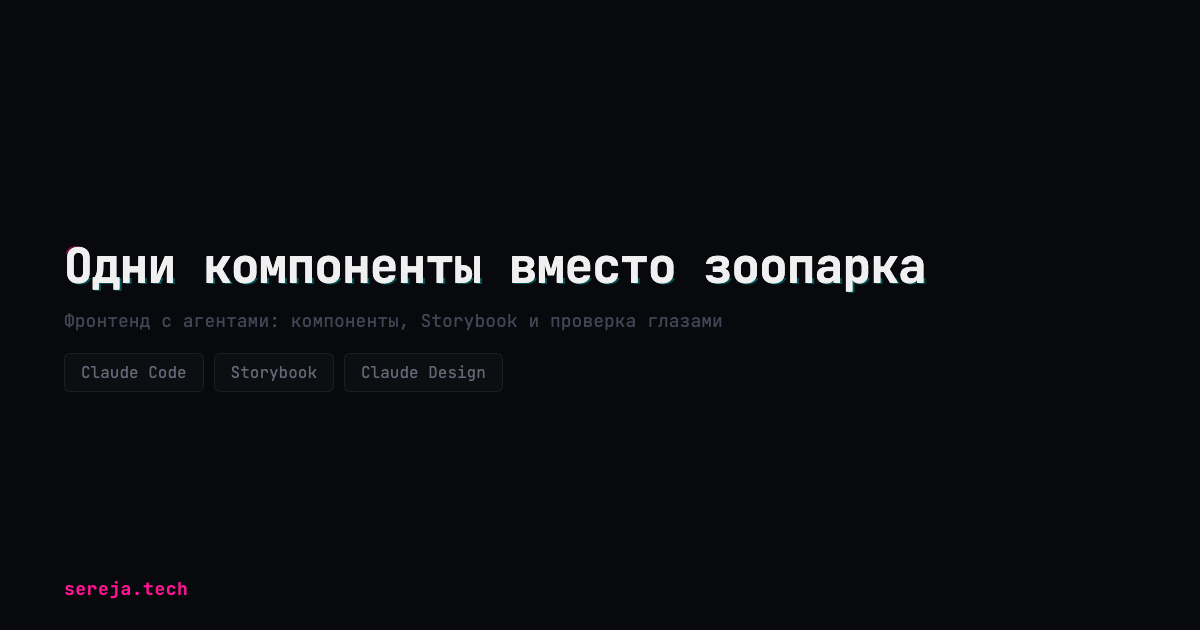
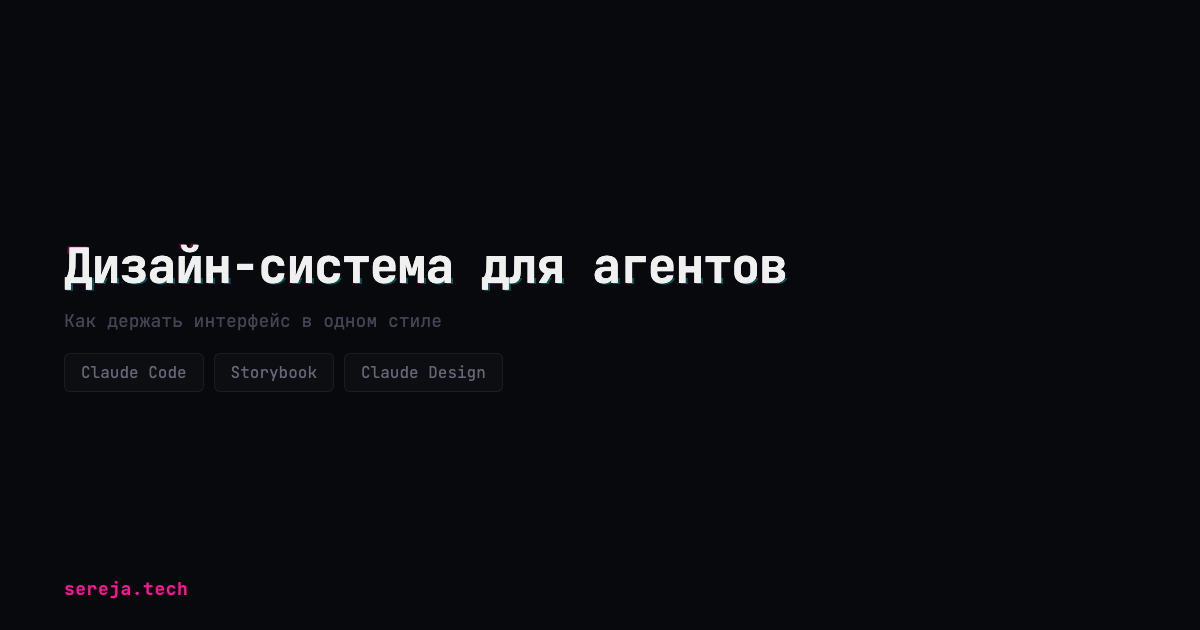
fix(guide): заголовок «Дизайн-система для агентов: как держать интерфейс в одном стиле»

diff --git a/static/frontend-s-agentami/index.html b/static/frontend-s-agentami/index.html
@@ -1,8 +1,8 @@
 <!doctype html>
 <html lang="ru"><head><meta charset="utf-8"><meta name="viewport" content="width=device-width,initial-scale=1">
-<meta name="updated" content="2026-10-08"><title>Фронтенд с агентами: одни компоненты вместо зоопарка | Сережа Рис</title>
+<meta name="updated" content="2026-10-08"><title>Дизайн-система для агентов: интерфейс в одном стиле | Сережа Рис</title>
 <meta name="description" content="Гайд: как агенты нарастили в LMS пятнадцать разных кнопок и как вернуть порядок: один набор компонентов, Storybook по правилам и проверка глазами.">
-<meta property="og:type" content="article"><meta property="og:title" content="Фронтенд с агентами: одни компоненты вместо зоопарка"><meta property="og:description" content="Гайд: как агенты нарастили в LMS пятнадцать разных кнопок и как вернуть порядок: один набор компонентов, Storybook по правилам и проверка глазами."><meta property="og:image" content="https://sereja.tech/frontend-s-agentami/img/og-preview.png"><meta property="og:image:width" content="1200"><meta property="og:image:height" content="630"><meta name="twitter:image" content="https://sereja.tech/frontend-s-agentami/img/og-preview.png">
+<meta property="og:type" content="article"><meta property="og:title" content="Дизайн-система для агентов: интерфейс в одном стиле"><meta property="og:description" content="Гайд: как агенты нарастили в LMS пятнадцать разных кнопок и как вернуть порядок: один набор компонентов, Storybook по правилам и проверка глазами."><meta property="og:image" content="https://sereja.tech/frontend-s-agentami/img/og-preview.png"><meta property="og:image:width" content="1200"><meta property="og:image:height" content="630"><meta name="twitter:image" content="https://sereja.tech/frontend-s-agentami/img/og-preview.png">
 <link rel="preconnect" href="https://fonts.googleapis.com"><link rel="preconnect" href="https://fonts.gstatic.com" crossorigin><link href="https://fonts.googleapis.com/css2?family=Spectral:ital,wght@0,200;0,300;0,400;0,500;0,800;1,200;1,300&family=Jost:wght@400;500;600&family=Poiret+One&family=IBM+Plex+Mono:wght@300;400&display=swap" rel="stylesheet"><style>
 :root{--ink:#000;--blue:#2d3e9f;--pink:#ff1493;--grey:#8b8b8b;--paper:#f4f4f2;--ph:#efefef;--col:720px;--wide:1000px;
 --serif:"Spectral",Georgia,serif;--sans:"Jost","Futura","Century Gothic",sans-serif;--logo:"Poiret One","Jost",sans-serif;--mono:"IBM Plex Mono",Menlo,monospace}
@@ -134,8 +134,8 @@ footer .logo{font-size:34px}
   .strip img:nth-child(n+4),.strip video:nth-child(n+4){display:none}
   .diagram{overflow-x:auto}.diagram svg{min-width:760px}
 }
-</style><link rel="canonical" href="https://sereja.tech/frontend-s-agentami/"><meta name="author" content="Сережа Рис"><meta name="robots" content="index, follow, max-image-preview:large"><link rel="icon" type="image/svg+xml" href="/favicon.svg"><link rel="apple-touch-icon" href="/apple-touch-icon.png"><meta name="theme-color" content="#ffffff"><link rel="alternate" type="application/rss+xml" href="https://sereja.tech/blog/index.xml" title="Блог"><meta property="og:url" content="https://sereja.tech/frontend-s-agentami/"><meta property="og:site_name" content="Сережа Рис"><meta property="og:locale" content="ru_RU"><meta property="og:image:type" content="image/png"><meta property="og:image:alt" content="Одни компоненты вместо зоопарка"><meta property="article:published_time" content="2026-10-08T12:00:00+03:00"><meta property="article:modified_time" content="2026-10-08T12:00:00+03:00"><meta property="article:author" content="Сережа Рис"><meta property="article:section" content="Гайды"><meta property="article:tag" content="вайбкодинг"><meta property="article:tag" content="Claude Code"><meta property="article:tag" content="AI-агенты"><meta property="article:tag" content="фронтенд"><meta property="article:tag" content="Storybook"><meta property="article:tag" content="дизайн-система"><meta name="twitter:card" content="summary_large_image"><meta name="twitter:site" content="@riiiiiiiiss"><meta name="twitter:creator" content="@riiiiiiiiss"><meta name="twitter:title" content="Фронтенд с агентами: одни компоненты вместо зоопарка"><meta name="twitter:description" content="Гайд: как агенты нарастили в LMS пятнадцать разных кнопок и как вернуть порядок: один набор компонентов, Storybook по правилам и проверка глазами."><script type="application/ld+json">{"@context": "https://schema.org", "@type": "BlogPosting", "headline": "Фронтенд с агентами: одни компоненты вместо зоопарка", "description": "Гайд: как агенты нарастили в LMS пятнадцать разных кнопок и как вернуть порядок: один набор компонентов, Storybook по правилам и проверка глазами.", "image": "https://sereja.tech/frontend-s-agentami/img/og-preview.png", "inLanguage": "ru-RU", "datePublished": "2026-10-08", "dateModified": "2026-10-08", "mainEntityOfPage": {"@type": "WebPage", "@id": "https://sereja.tech/frontend-s-agentami/"}, "author": {"@type": "Person", "name": "Сережа Рис", "url": "https://sereja.tech/", "sameAs": ["https://t.me/ris_ai", "https://www.youtube.com/@serejaris", "https://x.com/riiiiiiiiss", "https://github.com/serejaris"]}, "publisher": {"@type": "Person", "name": "Сережа Рис", "url": "https://sereja.tech/"}, "keywords": ["вайбкодинг", "Claude Code", "AI-агенты", "фронтенд", "Storybook", "дизайн-система"]}</script><script defer src="/_vercel/insights/script.js"></script><script defer src="/analytics.js"></script></head>
-<body class="a" id="top"><div class="bar" id="bar"><a class="mark" href="https://sereja.tech/">СР</a><nav class=""><a href="#zoopark">Зоопарк</a><a href="#ponadobilos">Что понадобилось</a><a href="#kak">Как навели порядок</a><a href="#storybook">Storybook</a><a href="#principy">Принципы</a><a href="#povtorit">Как повторить</a></nav><nav class="barlinks"><a href="https://sereja.tech/">Сайт</a><a href="https://sereja.tech/blog/">Блог</a><a href="https://t.me/ris_ai">Telegram</a><a href="https://www.youtube.com/@serejaris">YouTube</a><a href="https://t.me/vibecod3rs">Чат вайбкодеров</a></nav></div><header class="mast"><a class="logo" href="https://sereja.tech/">СЕРЁЖА РИС</a><div class="tagline">Вайбкодинг · AI · агенты</div><nav class="site"><a href="https://sereja.tech/">Сайт</a><a href="https://sereja.tech/blog/">Блог</a><a href="https://t.me/ris_ai">Telegram</a><a href="https://www.youtube.com/@serejaris">YouTube</a><a href="https://t.me/vibecod3rs">Чат вайбкодеров</a></nav><nav class="nav toc"><a href="#zoopark">Зоопарк</a><a href="#ponadobilos">Что понадобилось</a><a href="#kak">Как навели порядок</a><a href="#storybook">Storybook</a><a href="#principy">Принципы</a><a href="#povtorit">Как повторить</a></nav></header><div class="head"><div class="rubric">Гайды <span>•</span> <span>Фронтенд</span></div><div class="kicker">Как это сделано:</div><h1>Одни компоненты вместо зоопарка</h1><p class="lead">Агенты за две недели нарисовали в моей учебной платформе пятнадцать разных кнопок. Гайд о том, как навести порядок во фронтенде и держать его вместе с агентами.</p></div>
+</style><link rel="canonical" href="https://sereja.tech/frontend-s-agentami/"><meta name="author" content="Сережа Рис"><meta name="robots" content="index, follow, max-image-preview:large"><link rel="icon" type="image/svg+xml" href="/favicon.svg"><link rel="apple-touch-icon" href="/apple-touch-icon.png"><meta name="theme-color" content="#ffffff"><link rel="alternate" type="application/rss+xml" href="https://sereja.tech/blog/index.xml" title="Блог"><meta property="og:url" content="https://sereja.tech/frontend-s-agentami/"><meta property="og:site_name" content="Сережа Рис"><meta property="og:locale" content="ru_RU"><meta property="og:image:type" content="image/png"><meta property="og:image:alt" content="Дизайн-система для агентов: интерфейс в одном стиле"><meta property="article:published_time" content="2026-10-08T12:00:00+03:00"><meta property="article:modified_time" content="2026-10-08T12:00:00+03:00"><meta property="article:author" content="Сережа Рис"><meta property="article:section" content="Гайды"><meta property="article:tag" content="вайбкодинг"><meta property="article:tag" content="Claude Code"><meta property="article:tag" content="AI-агенты"><meta property="article:tag" content="фронтенд"><meta property="article:tag" content="Storybook"><meta property="article:tag" content="дизайн-система"><meta name="twitter:card" content="summary_large_image"><meta name="twitter:site" content="@riiiiiiiiss"><meta name="twitter:creator" content="@riiiiiiiiss"><meta name="twitter:title" content="Дизайн-система для агентов: интерфейс в одном стиле"><meta name="twitter:description" content="Гайд: как агенты нарастили в LMS пятнадцать разных кнопок и как вернуть порядок: один набор компонентов, Storybook по правилам и проверка глазами."><script type="application/ld+json">{"@context": "https://schema.org", "@type": "BlogPosting", "headline": "Дизайн-система для агентов: интерфейс в одном стиле", "description": "Гайд: как агенты нарастили в LMS пятнадцать разных кнопок и как вернуть порядок: один набор компонентов, Storybook по правилам и проверка глазами.", "image": "https://sereja.tech/frontend-s-agentami/img/og-preview.png", "inLanguage": "ru-RU", "datePublished": "2026-10-08", "dateModified": "2026-10-08", "mainEntityOfPage": {"@type": "WebPage", "@id": "https://sereja.tech/frontend-s-agentami/"}, "author": {"@type": "Person", "name": "Сережа Рис", "url": "https://sereja.tech/", "sameAs": ["https://t.me/ris_ai", "https://www.youtube.com/@serejaris", "https://x.com/riiiiiiiiss", "https://github.com/serejaris"]}, "publisher": {"@type": "Person", "name": "Сережа Рис", "url": "https://sereja.tech/"}, "keywords": ["вайбкодинг", "Claude Code", "AI-агенты", "фронтенд", "Storybook", "дизайн-система"]}</script><script defer src="/_vercel/insights/script.js"></script><script defer src="/analytics.js"></script></head>
+<body class="a" id="top"><div class="bar" id="bar"><a class="mark" href="https://sereja.tech/">СР</a><nav class=""><a href="#zoopark">Зоопарк</a><a href="#ponadobilos">Что понадобилось</a><a href="#kak">Как навели порядок</a><a href="#storybook">Storybook</a><a href="#principy">Принципы</a><a href="#povtorit">Как повторить</a></nav><nav class="barlinks"><a href="https://sereja.tech/">Сайт</a><a href="https://sereja.tech/blog/">Блог</a><a href="https://t.me/ris_ai">Telegram</a><a href="https://www.youtube.com/@serejaris">YouTube</a><a href="https://t.me/vibecod3rs">Чат вайбкодеров</a></nav></div><header class="mast"><a class="logo" href="https://sereja.tech/">СЕРЁЖА РИС</a><div class="tagline">Вайбкодинг · AI · агенты</div><nav class="site"><a href="https://sereja.tech/">Сайт</a><a href="https://sereja.tech/blog/">Блог</a><a href="https://t.me/ris_ai">Telegram</a><a href="https://www.youtube.com/@serejaris">YouTube</a><a href="https://t.me/vibecod3rs">Чат вайбкодеров</a></nav><nav class="nav toc"><a href="#zoopark">Зоопарк</a><a href="#ponadobilos">Что понадобилось</a><a href="#kak">Как навели порядок</a><a href="#storybook">Storybook</a><a href="#principy">Принципы</a><a href="#povtorit">Как повторить</a></nav></header><div class="head"><div class="rubric">Гайды <span>•</span> <span>Фронтенд</span></div><div class="kicker">Как это сделано:</div><h1>Дизайн-система для агентов: как держать интерфейс в одном стиле</h1><p class="lead">Агенты за две недели нарисовали в моей учебной платформе пятнадцать разных кнопок. Гайд о том, как навести порядок во фронтенде и держать его вместе с агентами.</p></div>
 <div class="meta">8 октября 2026 · гайд обновляется</div><div class="share"><i></i><i></i></div>
 <article class="body">
 
